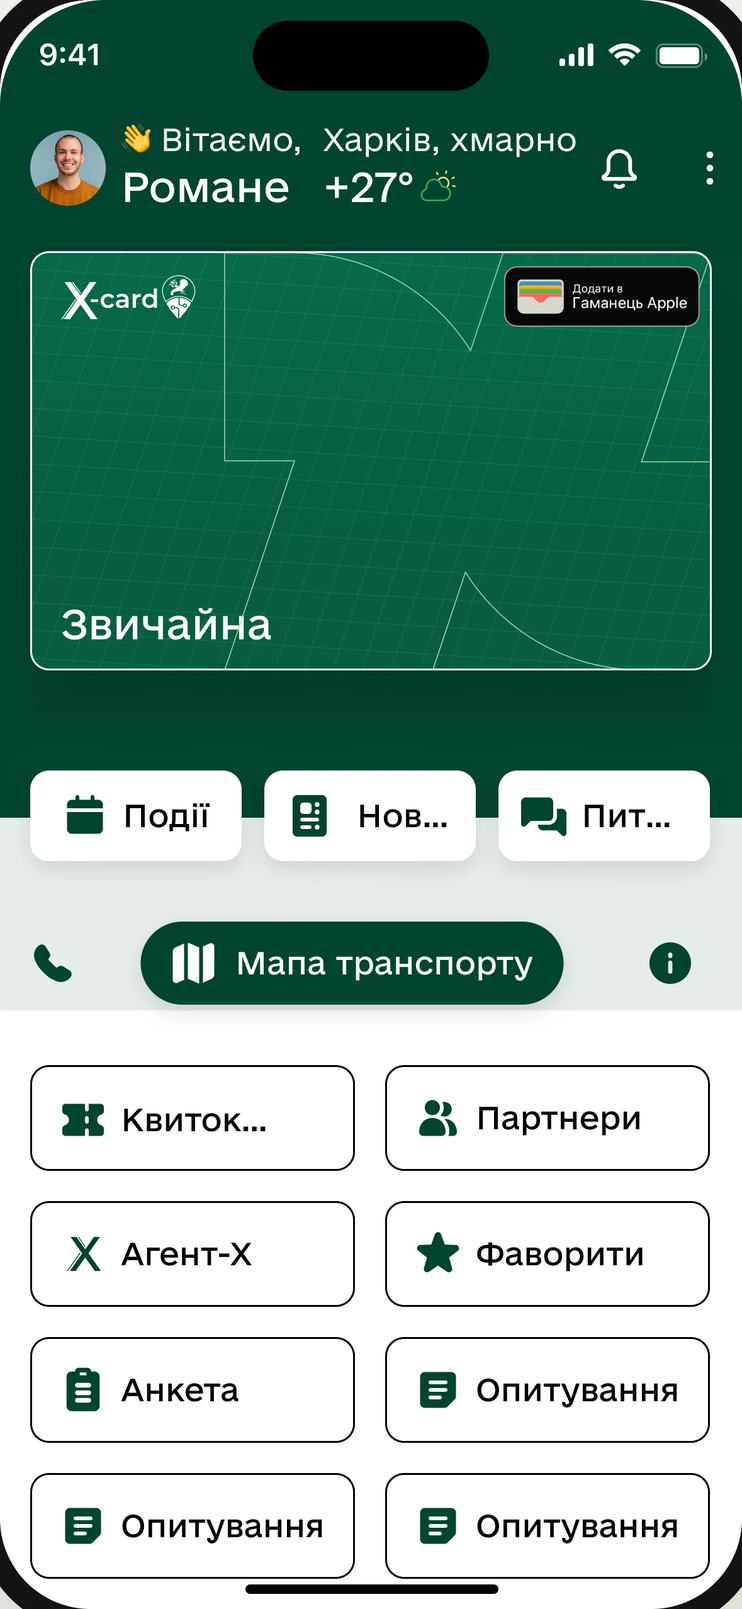
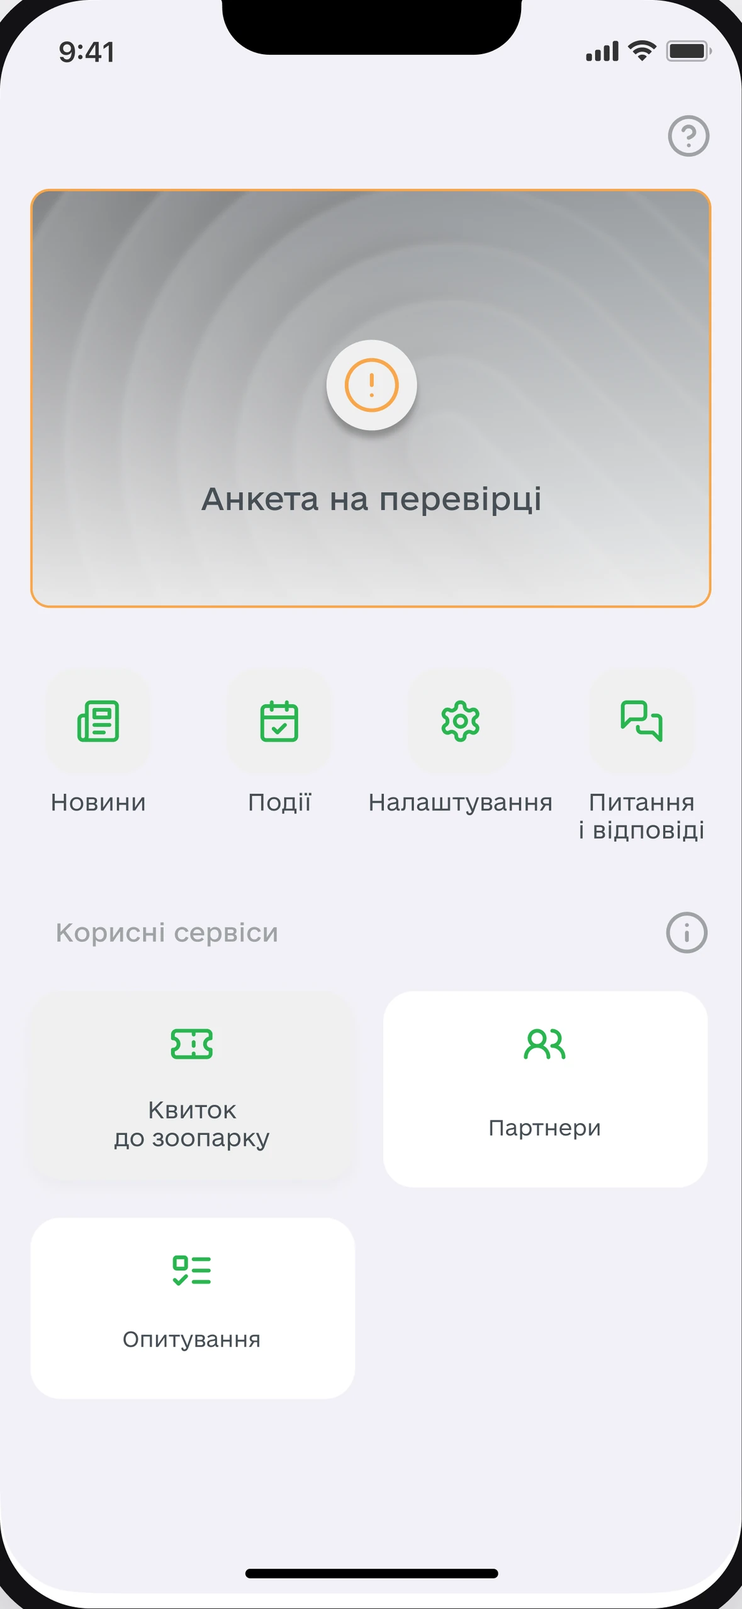
Mobile radar on the grid axis; Open Kharkiv before/after in the 3D map; callout button on its line
Claude-Session: https://claude.ai/code/session_01T4TwY1FkzQuYpYsjrctidp

diff --git a/ua/index.html b/ua/index.html
@@ -23,7 +23,7 @@
 <link rel="preload" href="../assets/fonts/outfit-latin-500-normal.woff2" as="font" type="font/woff2" crossorigin>
 <link rel="alternate" hreflang="en" href="../index.html">
 <link rel="alternate" hreflang="uk" href="index.html">
-<link rel="stylesheet" href="../assets/css/site.css?v=56fc40c5">
+<link rel="stylesheet" href="../assets/css/site.css?v=c871b14f">
 <script>if(location.hostname==='ninavoytovychdesign.github.io'){var s=document.createElement('script');s.async=1;s.src='https://gc.zgo.at/count.js';s.dataset.goatcounter='https://ninavoytovych.goatcounter.com/count';document.head.appendChild(s);}</script>
 </head>
 <body>
@@ -47,7 +47,7 @@
 </div>
       <div class="rf-wrap"><button type="button" class="rf-toggle" aria-expanded="false" aria-controls="rf-list"><span class="rf-lab">Домен</span><span class="rf-cur">Усі</span><svg class="rf-chev" viewBox="0 0 12 12" aria-hidden="true"><path d="M2 4l4 4 4-4" fill="none" stroke="currentColor" stroke-width="1.5"/></svg></button><ul class="radar-filters" id="rf-list" role="list" aria-label="Домени"><li><button type="button" class="rf" data-domain="" aria-pressed="true">Усі<span class="cnt">5</span></button></li><li><button type="button" class="rf" data-domain="FinTech" aria-pressed="false">FinTech<span class="cnt">1</span></button></li><li><button type="button" class="rf" data-domain="Outdoor" aria-pressed="false">Outdoor<span class="cnt">1</span></button></li><li><button type="button" class="rf" data-domain="Travel" aria-pressed="false">Travel<span class="cnt">1</span></button></li><li><button type="button" class="rf" data-domain="CivicTech" aria-pressed="false">CivicTech<span class="cnt">1</span></button></li><li><button type="button" class="rf" data-domain="HealthTech" aria-pressed="false">HealthTech<span class="cnt">1</span></button></li></ul></div>
       <p class="radar-key">Кільця – роки · сектори – домени</p>
-      <button type="button" class="r3d-open" data-r3d><svg viewBox="0 0 16 16" aria-hidden="true"><path d="M8 1.5l5.5 3v7L8 14.5l-5.5-3v-7zM2.5 4.5L8 7.5l5.5-3M8 7.5v7" fill="none" stroke="currentColor" stroke-width="1.2" stroke-linejoin="round"/></svg><span>Відкрити в 3D</span></button><script>window.R3D={"lang": "ua", "first": "ulovo", "cases": [{"n": "Ulovo", "t": "Застосунок для рибалок", "dom": "Outdoor", "yr": "2026", "fact": "12 флоу · 86 екранів", "role": "Фриланс", "d": ["Головна: відповідь першою", "Фільтр риби змінює весь прогноз", "Прогноз працює біля води, без звʼязку"], "k": "ulovo", "dev": "phone", "finish": "blue", "c": "#3778B8", "x": 48, "y": -272, "url": "work/ulovo.html", "screens": ["../assets/radar3d/ulovo-1.webp", {"src": "../assets/radar3d/ulovo-2.webp", "top": 0.1374, "bot": 0.2646}, "../assets/radar3d/ulovo-3.webp", {"src": "../assets/radar3d/ulovo-4.webp", "top": 0.1374, "bot": 0.2646}]}, {"n": "Lunora", "t": "Фінансовий застосунок", "dom": "FinTech", "yr": "2025", "fact": "4 юзабіліті-тести", "role": "Власний проєкт", "d": ["Processing пояснює, що відбувається", "Timeout – це не Failed", "Наступний крок на кожному стані"], "k": "lunora", "dev": "phone", "finish": "black", "c": "#6C58CE", "x": 158, "y": -106, "url": "work/lunora.html", "screens": ["../assets/radar3d/lunora-1.webp", "../assets/radar3d/lunora-2.webp", "../assets/radar3d/lunora-3.webp", "../assets/radar3d/lunora-4.webp"]}, {"n": "TripStone", "t": "AI-планувальник подорожей", "dom": "Travel", "yr": "2026", "fact": "UX-аудит і правки", "role": "UX-аудит", "d": ["Пояснити бюджет до розблокування", "Зберегти таблицю й покращити навігацію", "Зробити покупку й стан після неї зрозумілими"], "k": "tripstone", "dev": "tablet", "finish": "space", "c": "#D07A44", "x": 195, "y": 195, "url": "work/tripstone.html", "screens": [{"src": "../assets/radar3d/tripstone-1.webp", "label": "До UX-аудиту"}, {"src": "../assets/radar3d/tripstone-2.webp", "label": "Після: 1 день до розблокування", "top": 0.0417, "bot": 0.0535}, {"src": "../assets/radar3d/tripstone-3.webp", "label": "Після: увесь трип"}]}, {"n": "Open Kharkiv", "t": "Міський застосунок", "dom": "CivicTech", "yr": "2025–2026", "fact": "4 колірні режими · текст 160%", "role": "Команда з 2 дизайнерок", "d": ["Головна підлаштовується під стан людини", "Статус картки завжди має наступний крок", "Вхід: зрозуміліший вибір і всі стани"], "k": "open-kharkiv", "dev": "phone", "finish": "natural", "c": "#1C7154", "x": -106, "y": 158, "url": "work/open-kharkiv.html", "screens": ["../assets/radar3d/open-kharkiv-1.webp", "../assets/radar3d/open-kharkiv-2.webp", "../assets/radar3d/open-kharkiv-3.webp", "../assets/radar3d/open-kharkiv-4.webp"]}, {"n": "Numa", "t": "Медкарта родини", "dom": "HealthTech", "yr": "2026", "fact": "11 типів записів", "role": "Власний продукт", "d": ["Головна показує день, а не меню", "Один «+» для 11 типів записів", "Медкарту можна віддати лікарю"], "k": "numa", "dev": "android", "finish": "porcelain", "c": "#B5D640", "x": -265, "y": -76, "url": "work/numa.html", "screens": ["../assets/radar3d/numa-1.webp", "../assets/radar3d/numa-2.webp", "../assets/radar3d/numa-3.webp", "../assets/radar3d/numa-4.webp"]}], "s": {"title": "Мапа проєктів", "hint": "Свайп, колесо або ← →", "close": "Закрити", "prev": "Попередній кейс", "next": "Наступний кейс", "cases": "Кейси", "filters": "Фільтри", "dialog": "Мапа проєктів у 3D", "all": "Усі", "open": "Відкрити кейс →", "read": "Читати кейс →", "back": "← Назад", "ph": "Екрани гортаються самі · потягни пристрій, щоб покрутити", "ph1": "Потягни пристрій, щоб покрутити", "caseWord": "КЕЙС", "trigger": "Відкрити в 3D"}, "fallback": "work/index.html", "inert": ["body > *:not(.r3-root)"], "src": "../assets/js/radar3d.js?v=56fc40c5"};</script>
+      <button type="button" class="r3d-open" data-r3d><svg viewBox="0 0 16 16" aria-hidden="true"><path d="M8 1.5l5.5 3v7L8 14.5l-5.5-3v-7zM2.5 4.5L8 7.5l5.5-3M8 7.5v7" fill="none" stroke="currentColor" stroke-width="1.2" stroke-linejoin="round"/></svg><span>Відкрити в 3D</span></button><script>window.R3D={"lang": "ua", "first": "ulovo", "cases": [{"n": "Ulovo", "t": "Застосунок для рибалок", "dom": "Outdoor", "yr": "2026", "fact": "12 флоу · 86 екранів", "role": "Фриланс", "d": ["Головна: відповідь першою", "Фільтр риби змінює весь прогноз", "Прогноз працює біля води, без звʼязку"], "k": "ulovo", "dev": "phone", "finish": "blue", "c": "#3778B8", "x": 48, "y": -272, "url": "work/ulovo.html", "screens": ["../assets/radar3d/ulovo-1.webp", {"src": "../assets/radar3d/ulovo-2.webp", "top": 0.1374, "bot": 0.2646}, "../assets/radar3d/ulovo-3.webp", {"src": "../assets/radar3d/ulovo-4.webp", "top": 0.1374, "bot": 0.2646}]}, {"n": "Lunora", "t": "Фінансовий застосунок", "dom": "FinTech", "yr": "2025", "fact": "4 юзабіліті-тести", "role": "Власний проєкт", "d": ["Processing пояснює, що відбувається", "Timeout – це не Failed", "Наступний крок на кожному стані"], "k": "lunora", "dev": "phone", "finish": "black", "c": "#6C58CE", "x": 158, "y": -106, "url": "work/lunora.html", "screens": ["../assets/radar3d/lunora-1.webp", "../assets/radar3d/lunora-2.webp", "../assets/radar3d/lunora-3.webp", "../assets/radar3d/lunora-4.webp"]}, {"n": "TripStone", "t": "AI-планувальник подорожей", "dom": "Travel", "yr": "2026", "fact": "UX-аудит і правки", "role": "UX-аудит", "d": ["Пояснити бюджет до розблокування", "Зберегти таблицю й покращити навігацію", "Зробити покупку й стан після неї зрозумілими"], "k": "tripstone", "dev": "tablet", "finish": "space", "c": "#D07A44", "x": 195, "y": 195, "url": "work/tripstone.html", "screens": [{"src": "../assets/radar3d/tripstone-1.webp", "label": "До UX-аудиту"}, {"src": "../assets/radar3d/tripstone-2.webp", "label": "Після: 1 день до розблокування", "top": 0.0417, "bot": 0.0535}, {"src": "../assets/radar3d/tripstone-3.webp", "label": "Після: увесь трип"}]}, {"n": "Open Kharkiv", "t": "Міський застосунок", "dom": "CivicTech", "yr": "2025–2026", "fact": "4 колірні режими · текст 160%", "role": "Команда з 2 дизайнерок", "d": ["Головна підлаштовується під стан людини", "Статус картки завжди має наступний крок", "Вхід: зрозуміліший вибір і всі стани"], "k": "open-kharkiv", "dev": "phone", "finish": "natural", "c": "#1C7154", "x": -106, "y": 158, "url": "work/open-kharkiv.html", "screens": [{"src": "../assets/radar3d/open-kharkiv-1.webp", "label": "До редизайну: головна"}, {"src": "../assets/radar3d/open-kharkiv-2.webp", "label": "Після: головна"}, {"src": "../assets/radar3d/open-kharkiv-3.webp", "label": "До: анкета на перевірці"}, {"src": "../assets/radar3d/open-kharkiv-4.webp", "label": "Після: анкета на перевірці"}, {"src": "../assets/radar3d/open-kharkiv-5.webp", "label": "Висока контрастність"}, {"src": "../assets/radar3d/open-kharkiv-6.webp", "label": "Темна тема"}]}, {"n": "Numa", "t": "Медкарта родини", "dom": "HealthTech", "yr": "2026", "fact": "11 типів записів", "role": "Власний продукт", "d": ["Головна показує день, а не меню", "Один «+» для 11 типів записів", "Медкарту можна віддати лікарю"], "k": "numa", "dev": "android", "finish": "porcelain", "c": "#B5D640", "x": -265, "y": -76, "url": "work/numa.html", "screens": ["../assets/radar3d/numa-1.webp", "../assets/radar3d/numa-2.webp", "../assets/radar3d/numa-3.webp", "../assets/radar3d/numa-4.webp"]}], "s": {"title": "Мапа проєктів", "hint": "Свайп, колесо або ← →", "close": "Закрити", "prev": "Попередній кейс", "next": "Наступний кейс", "cases": "Кейси", "filters": "Фільтри", "dialog": "Мапа проєктів у 3D", "all": "Усі", "open": "Відкрити кейс →", "read": "Читати кейс →", "back": "← Назад", "ph": "Екрани гортаються самі · потягни пристрій, щоб покрутити", "ph1": "Потягни пристрій, щоб покрутити", "caseWord": "КЕЙС", "trigger": "Відкрити в 3D"}, "fallback": "work/index.html", "inert": ["body > *:not(.r3-root)"], "src": "../assets/js/radar3d.js?v=c871b14f"};</script>
     </div>
     <div class="hero-bottom">
       <div class="hero-intro">
@@ -324,6 +324,6 @@
     </div>
   </form>
 </dialog><script>window.MD_MSG={"req": "Заповніть це поле", "mail": "Перевірте пошту – схоже, адреса неповна", "ok": "Потрібна ваша згода на публікацію"};</script>
-<script src="../assets/js/site.js?v=56fc40c5" defer></script>
+<script src="../assets/js/site.js?v=c871b14f" defer></script>
 </body>
 </html>

diff --git a/index.html b/index.html
@@ -23,7 +23,7 @@
 <link rel="preload" href="assets/fonts/outfit-latin-500-normal.woff2" as="font" type="font/woff2" crossorigin>
 <link rel="alternate" hreflang="en" href="index.html">
 <link rel="alternate" hreflang="uk" href="ua/index.html">
-<link rel="stylesheet" href="assets/css/site.css?v=56fc40c5">
+<link rel="stylesheet" href="assets/css/site.css?v=c871b14f">
 <script>if(location.hostname==='ninavoytovychdesign.github.io'){var s=document.createElement('script');s.async=1;s.src='https://gc.zgo.at/count.js';s.dataset.goatcounter='https://ninavoytovych.goatcounter.com/count';document.head.appendChild(s);}</script>
 </head>
 <body>
@@ -47,7 +47,7 @@
 </div>
       <div class="rf-wrap"><button type="button" class="rf-toggle" aria-expanded="false" aria-controls="rf-list"><span class="rf-lab">Domain</span><span class="rf-cur">All</span><svg class="rf-chev" viewBox="0 0 12 12" aria-hidden="true"><path d="M2 4l4 4 4-4" fill="none" stroke="currentColor" stroke-width="1.5"/></svg></button><ul class="radar-filters" id="rf-list" role="list" aria-label="Domains"><li><button type="button" class="rf" data-domain="" aria-pressed="true">All<span class="cnt">5</span></button></li><li><button type="button" class="rf" data-domain="FinTech" aria-pressed="false">FinTech<span class="cnt">1</span></button></li><li><button type="button" class="rf" data-domain="Outdoor" aria-pressed="false">Outdoor<span class="cnt">1</span></button></li><li><button type="button" class="rf" data-domain="Travel" aria-pressed="false">Travel<span class="cnt">1</span></button></li><li><button type="button" class="rf" data-domain="CivicTech" aria-pressed="false">CivicTech<span class="cnt">1</span></button></li><li><button type="button" class="rf" data-domain="HealthTech" aria-pressed="false">HealthTech<span class="cnt">1</span></button></li></ul></div>
       <p class="radar-key">Rings – years · sectors – domains</p>
-      <button type="button" class="r3d-open" data-r3d><svg viewBox="0 0 16 16" aria-hidden="true"><path d="M8 1.5l5.5 3v7L8 14.5l-5.5-3v-7zM2.5 4.5L8 7.5l5.5-3M8 7.5v7" fill="none" stroke="currentColor" stroke-width="1.2" stroke-linejoin="round"/></svg><span>Open in 3D</span></button><script>window.R3D={"lang": "en", "first": "ulovo", "cases": [{"n": "Ulovo", "t": "App for anglers", "dom": "Outdoor", "yr": "2026", "fact": "12 flows · 86 screens", "role": "Freelance", "d": ["Home: the answer comes first", "The fish filter changes the whole forecast", "The forecast works by the water, offline"], "k": "ulovo", "dev": "phone", "finish": "blue", "c": "#3778B8", "x": 48, "y": -272, "url": "work/ulovo.html", "screens": ["assets/radar3d/ulovo-1.webp", {"src": "assets/radar3d/ulovo-2.webp", "top": 0.1374, "bot": 0.2646}, "assets/radar3d/ulovo-3.webp", {"src": "assets/radar3d/ulovo-4.webp", "top": 0.1374, "bot": 0.2646}]}, {"n": "Lunora", "t": "Finance app", "dom": "FinTech", "yr": "2025", "fact": "4 usability tests", "role": "Own project", "d": ["Processing explains what is happening", "Timeout is not Failed", "A next step in every state"], "k": "lunora", "dev": "phone", "finish": "black", "c": "#6C58CE", "x": 158, "y": -106, "url": "work/lunora.html", "screens": ["assets/radar3d/lunora-1.webp", "assets/radar3d/lunora-2.webp", "assets/radar3d/lunora-3.webp", "assets/radar3d/lunora-4.webp"]}, {"n": "TripStone", "t": "AI travel planner", "dom": "Travel", "yr": "2026", "fact": "UX audit and fixes", "role": "UX audit", "d": ["Explain the budget before unlocking", "Keep the table and improve navigation", "Make the purchase and the state after it clear"], "k": "tripstone", "dev": "tablet", "finish": "space", "c": "#D07A44", "x": 195, "y": 195, "url": "work/tripstone.html", "screens": [{"src": "assets/radar3d/tripstone-1.webp", "label": "Before the UX audit"}, {"src": "assets/radar3d/tripstone-2.webp", "label": "After: day 1 before unlocking", "top": 0.0417, "bot": 0.0535}, {"src": "assets/radar3d/tripstone-3.webp", "label": "After: the full trip"}]}, {"n": "Open Kharkiv", "t": "City app", "dom": "CivicTech", "yr": "2025–2026", "fact": "4 colour modes · text at 160%", "role": "Team of 2 designers", "d": ["Home adapts to the person’s state", "A card status always has a next step", "Sign-in: a clearer choice and every state"], "k": "open-kharkiv", "dev": "phone", "finish": "natural", "c": "#1C7154", "x": -106, "y": 158, "url": "work/open-kharkiv.html", "screens": ["assets/radar3d/open-kharkiv-1.webp", "assets/radar3d/open-kharkiv-2.webp", "assets/radar3d/open-kharkiv-3.webp", "assets/radar3d/open-kharkiv-4.webp"]}, {"n": "Numa", "t": "Family health app", "dom": "HealthTech", "yr": "2026", "fact": "11 record types", "role": "Own product", "d": ["Home shows the day, not a menu", "One «+» for 11 record types", "The health record can go to a doctor"], "k": "numa", "dev": "android", "finish": "porcelain", "c": "#B5D640", "x": -265, "y": -76, "url": "work/numa.html", "screens": ["assets/radar3d/numa-1.webp", "assets/radar3d/numa-2.webp", "assets/radar3d/numa-3.webp", "assets/radar3d/numa-4.webp"]}], "s": {"title": "Project map", "hint": "Swipe, scroll or ← →", "close": "Close", "prev": "Previous case", "next": "Next case", "cases": "Cases", "filters": "Filters", "dialog": "Project map in 3D", "all": "All", "open": "Open the case →", "read": "Read the case →", "back": "← Back", "ph": "Screens change on their own · drag the device to turn it", "ph1": "Drag the device to turn it", "caseWord": "CASE", "trigger": "Open in 3D"}, "fallback": "work/index.html", "inert": ["body > *:not(.r3-root)"], "src": "assets/js/radar3d.js?v=56fc40c5"};</script>
+      <button type="button" class="r3d-open" data-r3d><svg viewBox="0 0 16 16" aria-hidden="true"><path d="M8 1.5l5.5 3v7L8 14.5l-5.5-3v-7zM2.5 4.5L8 7.5l5.5-3M8 7.5v7" fill="none" stroke="currentColor" stroke-width="1.2" stroke-linejoin="round"/></svg><span>Open in 3D</span></button><script>window.R3D={"lang": "en", "first": "ulovo", "cases": [{"n": "Ulovo", "t": "App for anglers", "dom": "Outdoor", "yr": "2026", "fact": "12 flows · 86 screens", "role": "Freelance", "d": ["Home: the answer comes first", "The fish filter changes the whole forecast", "The forecast works by the water, offline"], "k": "ulovo", "dev": "phone", "finish": "blue", "c": "#3778B8", "x": 48, "y": -272, "url": "work/ulovo.html", "screens": ["assets/radar3d/ulovo-1.webp", {"src": "assets/radar3d/ulovo-2.webp", "top": 0.1374, "bot": 0.2646}, "assets/radar3d/ulovo-3.webp", {"src": "assets/radar3d/ulovo-4.webp", "top": 0.1374, "bot": 0.2646}]}, {"n": "Lunora", "t": "Finance app", "dom": "FinTech", "yr": "2025", "fact": "4 usability tests", "role": "Own project", "d": ["Processing explains what is happening", "Timeout is not Failed", "A next step in every state"], "k": "lunora", "dev": "phone", "finish": "black", "c": "#6C58CE", "x": 158, "y": -106, "url": "work/lunora.html", "screens": ["assets/radar3d/lunora-1.webp", "assets/radar3d/lunora-2.webp", "assets/radar3d/lunora-3.webp", "assets/radar3d/lunora-4.webp"]}, {"n": "TripStone", "t": "AI travel planner", "dom": "Travel", "yr": "2026", "fact": "UX audit and fixes", "role": "UX audit", "d": ["Explain the budget before unlocking", "Keep the table and improve navigation", "Make the purchase and the state after it clear"], "k": "tripstone", "dev": "tablet", "finish": "space", "c": "#D07A44", "x": 195, "y": 195, "url": "work/tripstone.html", "screens": [{"src": "assets/radar3d/tripstone-1.webp", "label": "Before the UX audit"}, {"src": "assets/radar3d/tripstone-2.webp", "label": "After: day 1 before unlocking", "top": 0.0417, "bot": 0.0535}, {"src": "assets/radar3d/tripstone-3.webp", "label": "After: the full trip"}]}, {"n": "Open Kharkiv", "t": "City app", "dom": "CivicTech", "yr": "2025–2026", "fact": "4 colour modes · text at 160%", "role": "Team of 2 designers", "d": ["Home adapts to the person’s state", "A card status always has a next step", "Sign-in: a clearer choice and every state"], "k": "open-kharkiv", "dev": "phone", "finish": "natural", "c": "#1C7154", "x": -106, "y": 158, "url": "work/open-kharkiv.html", "screens": [{"src": "assets/radar3d/open-kharkiv-1.webp", "label": "Before the redesign: home"}, {"src": "assets/radar3d/open-kharkiv-2.webp", "label": "After: home"}, {"src": "assets/radar3d/open-kharkiv-3.webp", "label": "Before: application under review"}, {"src": "assets/radar3d/open-kharkiv-4.webp", "label": "After: application under review"}, {"src": "assets/radar3d/open-kharkiv-5.webp", "label": "High contrast"}, {"src": "assets/radar3d/open-kharkiv-6.webp", "label": "Dark theme"}]}, {"n": "Numa", "t": "Family health app", "dom": "HealthTech", "yr": "2026", "fact": "11 record types", "role": "Own product", "d": ["Home shows the day, not a menu", "One «+» for 11 record types", "The health record can go to a doctor"], "k": "numa", "dev": "android", "finish": "porcelain", "c": "#B5D640", "x": -265, "y": -76, "url": "work/numa.html", "screens": ["assets/radar3d/numa-1.webp", "assets/radar3d/numa-2.webp", "assets/radar3d/numa-3.webp", "assets/radar3d/numa-4.webp"]}], "s": {"title": "Project map", "hint": "Swipe, scroll or ← →", "close": "Close", "prev": "Previous case", "next": "Next case", "cases": "Cases", "filters": "Filters", "dialog": "Project map in 3D", "all": "All", "open": "Open the case →", "read": "Read the case →", "back": "← Back", "ph": "Screens change on their own · drag the device to turn it", "ph1": "Drag the device to turn it", "caseWord": "CASE", "trigger": "Open in 3D"}, "fallback": "work/index.html", "inert": ["body > *:not(.r3-root)"], "src": "assets/js/radar3d.js?v=c871b14f"};</script>
     </div>
     <div class="hero-bottom">
       <div class="hero-intro">
@@ -324,6 +324,6 @@
     </div>
   </form>
 </dialog><script>window.MD_MSG={"req": "Fill this in", "mail": "Check the email – it looks incomplete", "ok": "Please confirm to publish"};</script>
-<script src="assets/js/site.js?v=56fc40c5" defer></script>
+<script src="assets/js/site.js?v=c871b14f" defer></script>
 </body>
 </html>

diff --git a/ua/work/open-kharkiv.html b/ua/work/open-kharkiv.html
@@ -23,8 +23,8 @@
 <link rel="preload" href="../../assets/fonts/outfit-latin-500-normal.woff2" as="font" type="font/woff2" crossorigin>
 <link rel="alternate" hreflang="en" href="../../work/open-kharkiv.html">
 <link rel="alternate" hreflang="uk" href="../work/open-kharkiv.html">
-<link rel="stylesheet" href="../../assets/css/case-blocks.css?v=56fc40c5">
-<link rel="stylesheet" href="../../assets/css/site.css?v=56fc40c5">
+<link rel="stylesheet" href="../../assets/css/case-blocks.css?v=c871b14f">
+<link rel="stylesheet" href="../../assets/css/site.css?v=c871b14f">
 <script>if(location.hostname==='ninavoytovychdesign.github.io'){var s=document.createElement('script');s.async=1;s.src='https://gc.zgo.at/count.js';s.dataset.goatcounter='https://ninavoytovych.goatcounter.com/count';document.head.appendChild(s);}</script>
 </head>
 <body>
@@ -167,6 +167,6 @@
     </div>
   </form>
 </dialog><script>window.MD_MSG={"req": "Заповніть це поле", "mail": "Перевірте пошту – схоже, адреса неповна", "ok": "Потрібна ваша згода на публікацію"};</script>
-<script src="../../assets/js/site.js?v=56fc40c5" defer></script>
+<script src="../../assets/js/site.js?v=c871b14f" defer></script>
 </body>
 </html>

diff --git a/ua/work/nova-poshta.html b/ua/work/nova-poshta.html
@@ -23,8 +23,8 @@
 <link rel="preload" href="../../assets/fonts/outfit-latin-500-normal.woff2" as="font" type="font/woff2" crossorigin>
 <link rel="alternate" hreflang="en" href="../../work/nova-poshta.html">
 <link rel="alternate" hreflang="uk" href="../work/nova-poshta.html">
-<link rel="stylesheet" href="../../assets/css/case-blocks.css?v=56fc40c5">
-<link rel="stylesheet" href="../../assets/css/site.css?v=56fc40c5">
+<link rel="stylesheet" href="../../assets/css/case-blocks.css?v=c871b14f">
+<link rel="stylesheet" href="../../assets/css/site.css?v=c871b14f">
 <script>if(location.hostname==='ninavoytovychdesign.github.io'){var s=document.createElement('script');s.async=1;s.src='https://gc.zgo.at/count.js';s.dataset.goatcounter='https://ninavoytovych.goatcounter.com/count';document.head.appendChild(s);}</script>
 </head>
 <body>
@@ -160,6 +160,6 @@
     </div>
   </form>
 </dialog><script>window.MD_MSG={"req": "Заповніть це поле", "mail": "Перевірте пошту – схоже, адреса неповна", "ok": "Потрібна ваша згода на публікацію"};</script>
-<script src="../../assets/js/site.js?v=56fc40c5" defer></script>
+<script src="../../assets/js/site.js?v=c871b14f" defer></script>
 </body>
 </html>

diff --git a/ua/work/tripstone.html b/ua/work/tripstone.html
@@ -23,8 +23,8 @@
 <link rel="preload" href="../../assets/fonts/outfit-latin-500-normal.woff2" as="font" type="font/woff2" crossorigin>
 <link rel="alternate" hreflang="en" href="../../work/tripstone.html">
 <link rel="alternate" hreflang="uk" href="../work/tripstone.html">
-<link rel="stylesheet" href="../../assets/css/case-blocks.css?v=56fc40c5">
-<link rel="stylesheet" href="../../assets/css/site.css?v=56fc40c5">
+<link rel="stylesheet" href="../../assets/css/case-blocks.css?v=c871b14f">
+<link rel="stylesheet" href="../../assets/css/site.css?v=c871b14f">
 <script>if(location.hostname==='ninavoytovychdesign.github.io'){var s=document.createElement('script');s.async=1;s.src='https://gc.zgo.at/count.js';s.dataset.goatcounter='https://ninavoytovych.goatcounter.com/count';document.head.appendChild(s);}</script>
 </head>
 <body>
@@ -136,6 +136,6 @@
     </div>
   </form>
 </dialog><script>window.MD_MSG={"req": "Заповніть це поле", "mail": "Перевірте пошту – схоже, адреса неповна", "ok": "Потрібна ваша згода на публікацію"};</script>
-<script src="../../assets/js/site.js?v=56fc40c5" defer></script>
+<script src="../../assets/js/site.js?v=c871b14f" defer></script>
 </body>
 </html>

diff --git a/ua/work/lunora.html b/ua/work/lunora.html
@@ -23,8 +23,8 @@
 <link rel="preload" href="../../assets/fonts/outfit-latin-500-normal.woff2" as="font" type="font/woff2" crossorigin>
 <link rel="alternate" hreflang="en" href="../../work/lunora.html">
 <link rel="alternate" hreflang="uk" href="../work/lunora.html">
-<link rel="stylesheet" href="../../assets/css/case-blocks.css?v=56fc40c5">
-<link rel="stylesheet" href="../../assets/css/site.css?v=56fc40c5">
+<link rel="stylesheet" href="../../assets/css/case-blocks.css?v=c871b14f">
+<link rel="stylesheet" href="../../assets/css/site.css?v=c871b14f">
 <script>if(location.hostname==='ninavoytovychdesign.github.io'){var s=document.createElement('script');s.async=1;s.src='https://gc.zgo.at/count.js';s.dataset.goatcounter='https://ninavoytovych.goatcounter.com/count';document.head.appendChild(s);}</script>
 </head>
 <body>
@@ -171,6 +171,6 @@
     </div>
   </form>
 </dialog><script>window.MD_MSG={"req": "Заповніть це поле", "mail": "Перевірте пошту – схоже, адреса неповна", "ok": "Потрібна ваша згода на публікацію"};</script>
-<script src="../../assets/js/site.js?v=56fc40c5" defer></script>
+<script src="../../assets/js/site.js?v=c871b14f" defer></script>
 </body>
 </html>

diff --git a/ua/work/ulovo.html b/ua/work/ulovo.html
@@ -23,8 +23,8 @@
 <link rel="preload" href="../../assets/fonts/outfit-latin-500-normal.woff2" as="font" type="font/woff2" crossorigin>
 <link rel="alternate" hreflang="en" href="../../work/ulovo.html">
 <link rel="alternate" hreflang="uk" href="../work/ulovo.html">
-<link rel="stylesheet" href="../../assets/css/case-blocks.css?v=56fc40c5">
-<link rel="stylesheet" href="../../assets/css/site.css?v=56fc40c5">
+<link rel="stylesheet" href="../../assets/css/case-blocks.css?v=c871b14f">
+<link rel="stylesheet" href="../../assets/css/site.css?v=c871b14f">
 <script>if(location.hostname==='ninavoytovychdesign.github.io'){var s=document.createElement('script');s.async=1;s.src='https://gc.zgo.at/count.js';s.dataset.goatcounter='https://ninavoytovych.goatcounter.com/count';document.head.appendChild(s);}</script>
 </head>
 <body>
@@ -168,6 +168,6 @@
     </div>
   </form>
 </dialog><script>window.MD_MSG={"req": "Заповніть це поле", "mail": "Перевірте пошту – схоже, адреса неповна", "ok": "Потрібна ваша згода на публікацію"};</script>
-<script src="../../assets/js/site.js?v=56fc40c5" defer></script>
+<script src="../../assets/js/site.js?v=c871b14f" defer></script>
 </body>
 </html>

diff --git a/ua/work/gora.html b/ua/work/gora.html
@@ -23,8 +23,8 @@
 <link rel="preload" href="../../assets/fonts/outfit-latin-500-normal.woff2" as="font" type="font/woff2" crossorigin>
 <link rel="alternate" hreflang="en" href="../../work/gora.html">
 <link rel="alternate" hreflang="uk" href="../work/gora.html">
-<link rel="stylesheet" href="../../assets/css/case-blocks.css?v=56fc40c5">
-<link rel="stylesheet" href="../../assets/css/site.css?v=56fc40c5">
+<link rel="stylesheet" href="../../assets/css/case-blocks.css?v=c871b14f">
+<link rel="stylesheet" href="../../assets/css/site.css?v=c871b14f">
 <script>if(location.hostname==='ninavoytovychdesign.github.io'){var s=document.createElement('script');s.async=1;s.src='https://gc.zgo.at/count.js';s.dataset.goatcounter='https://ninavoytovych.goatcounter.com/count';document.head.appendChild(s);}</script>
 </head>
 <body>
@@ -165,6 +165,6 @@
     </div>
   </form>
 </dialog><script>window.MD_MSG={"req": "Заповніть це поле", "mail": "Перевірте пошту – схоже, адреса неповна", "ok": "Потрібна ваша згода на публікацію"};</script>
-<script src="../../assets/js/site.js?v=56fc40c5" defer></script>
+<script src="../../assets/js/site.js?v=c871b14f" defer></script>
 </body>
 </html>

diff --git a/ua/work/numa.html b/ua/work/numa.html
@@ -23,8 +23,8 @@
 <link rel="preload" href="../../assets/fonts/outfit-latin-500-normal.woff2" as="font" type="font/woff2" crossorigin>
 <link rel="alternate" hreflang="en" href="../../work/numa.html">
 <link rel="alternate" hreflang="uk" href="../work/numa.html">
-<link rel="stylesheet" href="../../assets/css/case-blocks.css?v=56fc40c5">
-<link rel="stylesheet" href="../../assets/css/site.css?v=56fc40c5">
+<link rel="stylesheet" href="../../assets/css/case-blocks.css?v=c871b14f">
+<link rel="stylesheet" href="../../assets/css/site.css?v=c871b14f">
 <script>if(location.hostname==='ninavoytovychdesign.github.io'){var s=document.createElement('script');s.async=1;s.src='https://gc.zgo.at/count.js';s.dataset.goatcounter='https://ninavoytovych.goatcounter.com/count';document.head.appendChild(s);}</script>
 </head>
 <body>
@@ -163,6 +163,6 @@
     </div>
   </form>
 </dialog><script>window.MD_MSG={"req": "Заповніть це поле", "mail": "Перевірте пошту – схоже, адреса неповна", "ok": "Потрібна ваша згода на публікацію"};</script>
-<script src="../../assets/js/site.js?v=56fc40c5" defer></script>
+<script src="../../assets/js/site.js?v=c871b14f" defer></script>
 </body>
 </html>

diff --git a/work/open-kharkiv.html b/work/open-kharkiv.html
@@ -23,8 +23,8 @@
 <link rel="preload" href="../assets/fonts/outfit-latin-500-normal.woff2" as="font" type="font/woff2" crossorigin>
 <link rel="alternate" hreflang="en" href="../work/open-kharkiv.html">
 <link rel="alternate" hreflang="uk" href="../ua/work/open-kharkiv.html">
-<link rel="stylesheet" href="../assets/css/case-blocks.css?v=56fc40c5">
-<link rel="stylesheet" href="../assets/css/site.css?v=56fc40c5">
+<link rel="stylesheet" href="../assets/css/case-blocks.css?v=c871b14f">
+<link rel="stylesheet" href="../assets/css/site.css?v=c871b14f">
 <script>if(location.hostname==='ninavoytovychdesign.github.io'){var s=document.createElement('script');s.async=1;s.src='https://gc.zgo.at/count.js';s.dataset.goatcounter='https://ninavoytovych.goatcounter.com/count';document.head.appendChild(s);}</script>
 </head>
 <body>
@@ -167,6 +167,6 @@
     </div>
   </form>
 </dialog><script>window.MD_MSG={"req": "Fill this in", "mail": "Check the email – it looks incomplete", "ok": "Please confirm to publish"};</script>
-<script src="../assets/js/site.js?v=56fc40c5" defer></script>
+<script src="../assets/js/site.js?v=c871b14f" defer></script>
 </body>
 </html>

diff --git a/work/nova-poshta.html b/work/nova-poshta.html
@@ -23,8 +23,8 @@
 <link rel="preload" href="../assets/fonts/outfit-latin-500-normal.woff2" as="font" type="font/woff2" crossorigin>
 <link rel="alternate" hreflang="en" href="../work/nova-poshta.html">
 <link rel="alternate" hreflang="uk" href="../ua/work/nova-poshta.html">
-<link rel="stylesheet" href="../assets/css/case-blocks.css?v=56fc40c5">
-<link rel="stylesheet" href="../assets/css/site.css?v=56fc40c5">
+<link rel="stylesheet" href="../assets/css/case-blocks.css?v=c871b14f">
+<link rel="stylesheet" href="../assets/css/site.css?v=c871b14f">
 <script>if(location.hostname==='ninavoytovychdesign.github.io'){var s=document.createElement('script');s.async=1;s.src='https://gc.zgo.at/count.js';s.dataset.goatcounter='https://ninavoytovych.goatcounter.com/count';document.head.appendChild(s);}</script>
 </head>
 <body>
@@ -160,6 +160,6 @@
     </div>
   </form>
 </dialog><script>window.MD_MSG={"req": "Fill this in", "mail": "Check the email – it looks incomplete", "ok": "Please confirm to publish"};</script>
-<script src="../assets/js/site.js?v=56fc40c5" defer></script>
+<script src="../assets/js/site.js?v=c871b14f" defer></script>
 </body>
 </html>

diff --git a/work/tripstone.html b/work/tripstone.html
@@ -23,8 +23,8 @@
 <link rel="preload" href="../assets/fonts/outfit-latin-500-normal.woff2" as="font" type="font/woff2" crossorigin>
 <link rel="alternate" hreflang="en" href="../work/tripstone.html">
 <link rel="alternate" hreflang="uk" href="../ua/work/tripstone.html">
-<link rel="stylesheet" href="../assets/css/case-blocks.css?v=56fc40c5">
-<link rel="stylesheet" href="../assets/css/site.css?v=56fc40c5">
+<link rel="stylesheet" href="../assets/css/case-blocks.css?v=c871b14f">
+<link rel="stylesheet" href="../assets/css/site.css?v=c871b14f">
 <script>if(location.hostname==='ninavoytovychdesign.github.io'){var s=document.createElement('script');s.async=1;s.src='https://gc.zgo.at/count.js';s.dataset.goatcounter='https://ninavoytovych.goatcounter.com/count';document.head.appendChild(s);}</script>
 </head>
 <body>
@@ -136,6 +136,6 @@
     </div>
   </form>
 </dialog><script>window.MD_MSG={"req": "Fill this in", "mail": "Check the email – it looks incomplete", "ok": "Please confirm to publish"};</script>
-<script src="../assets/js/site.js?v=56fc40c5" defer></script>
+<script src="../assets/js/site.js?v=c871b14f" defer></script>
 </body>
 </html>
